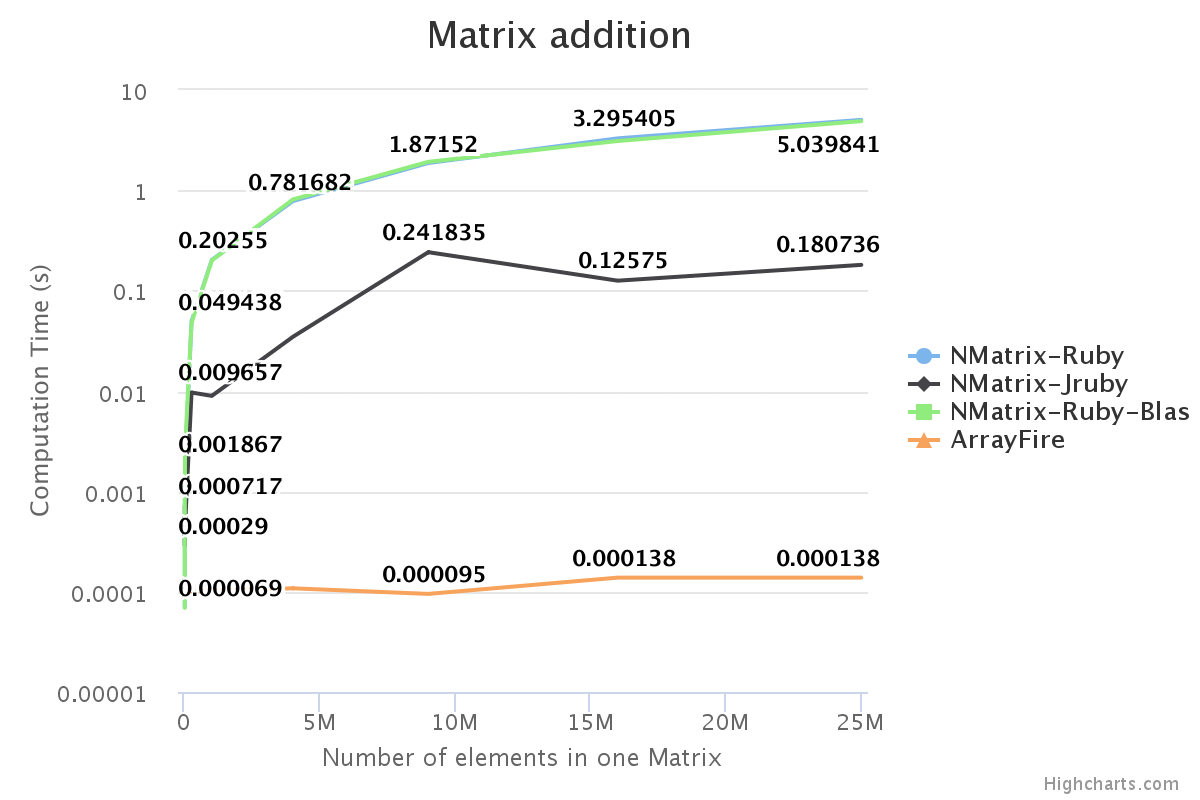
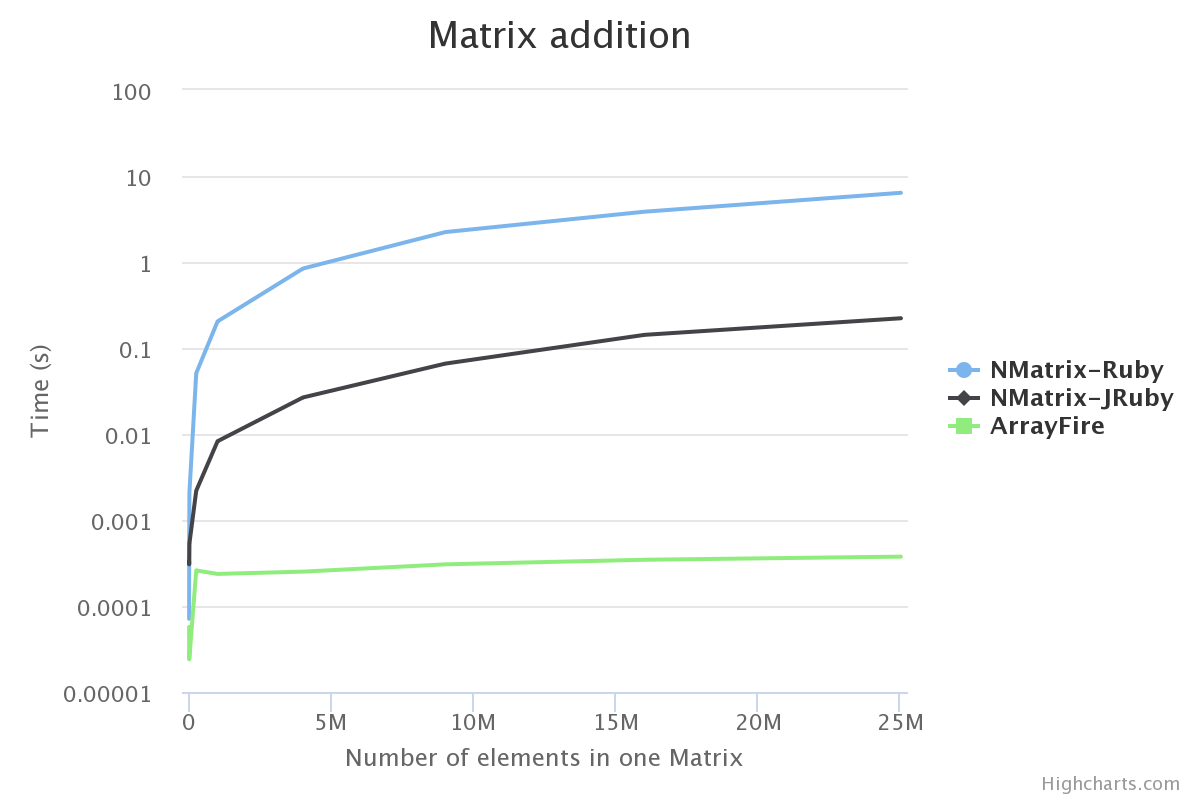
corrections in old blog

diff --git a/assets/js/chart.js b/assets/js/chart.js
@@ -65,13 +65,16 @@ app.controller('MainCtrl', function($scope, $http) {
                     },
                     series: [{
                       name: "NMatrix-Ruby",
-                      data: nmatrix_ruby[key]
+                      data: nmatrix_ruby[key],
+                      color: 'black'
                     },{
                       name: "NMatrix-JRuby",
-                      data: nmatrix_jruby[key]
+                      data: nmatrix_jruby[key],
+                      color: 'green'
                     },{
                       name: "ArrayFire",
-                      data: arrayfire[key]
+                      data: arrayfire[key],
+                      color: 'orange'
                     },
                   ]
                 });
